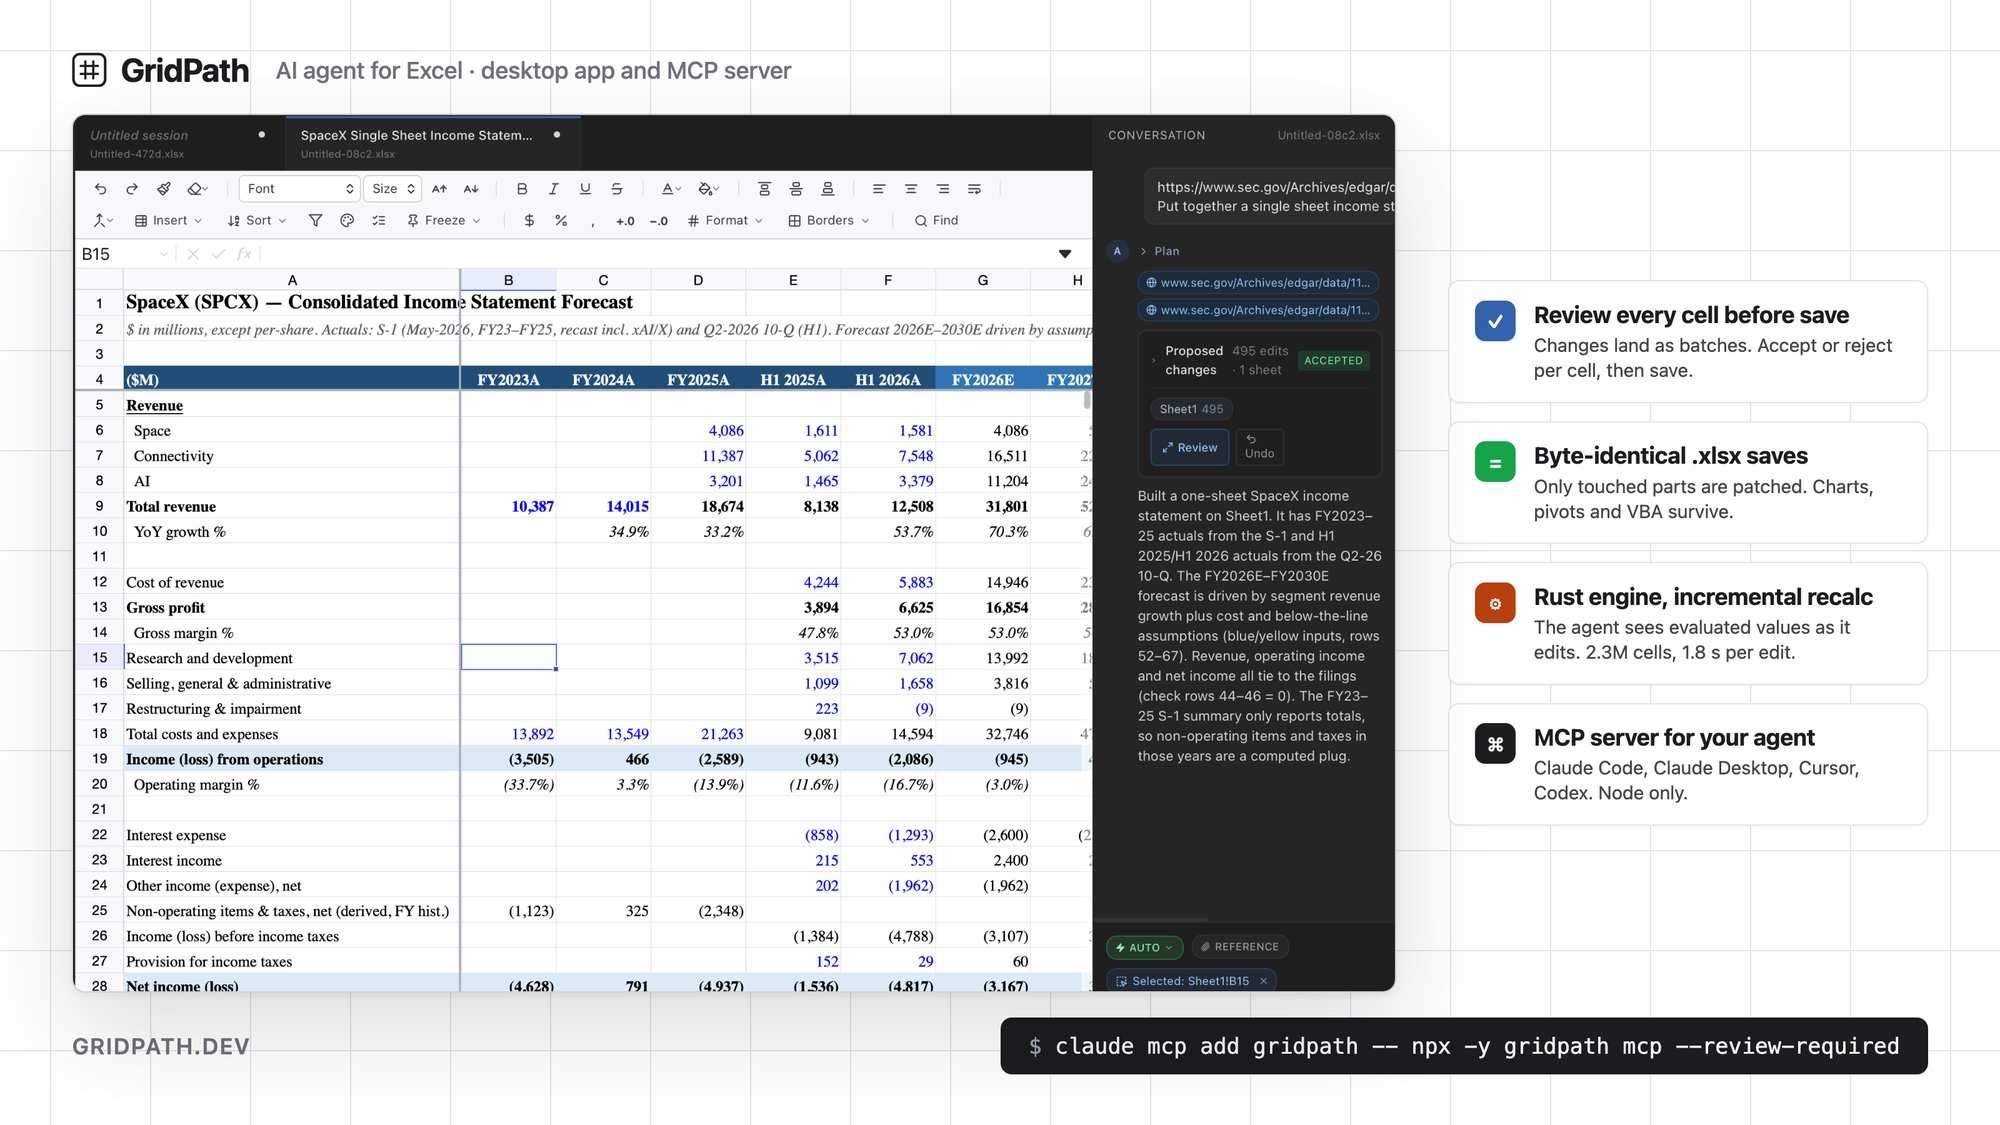
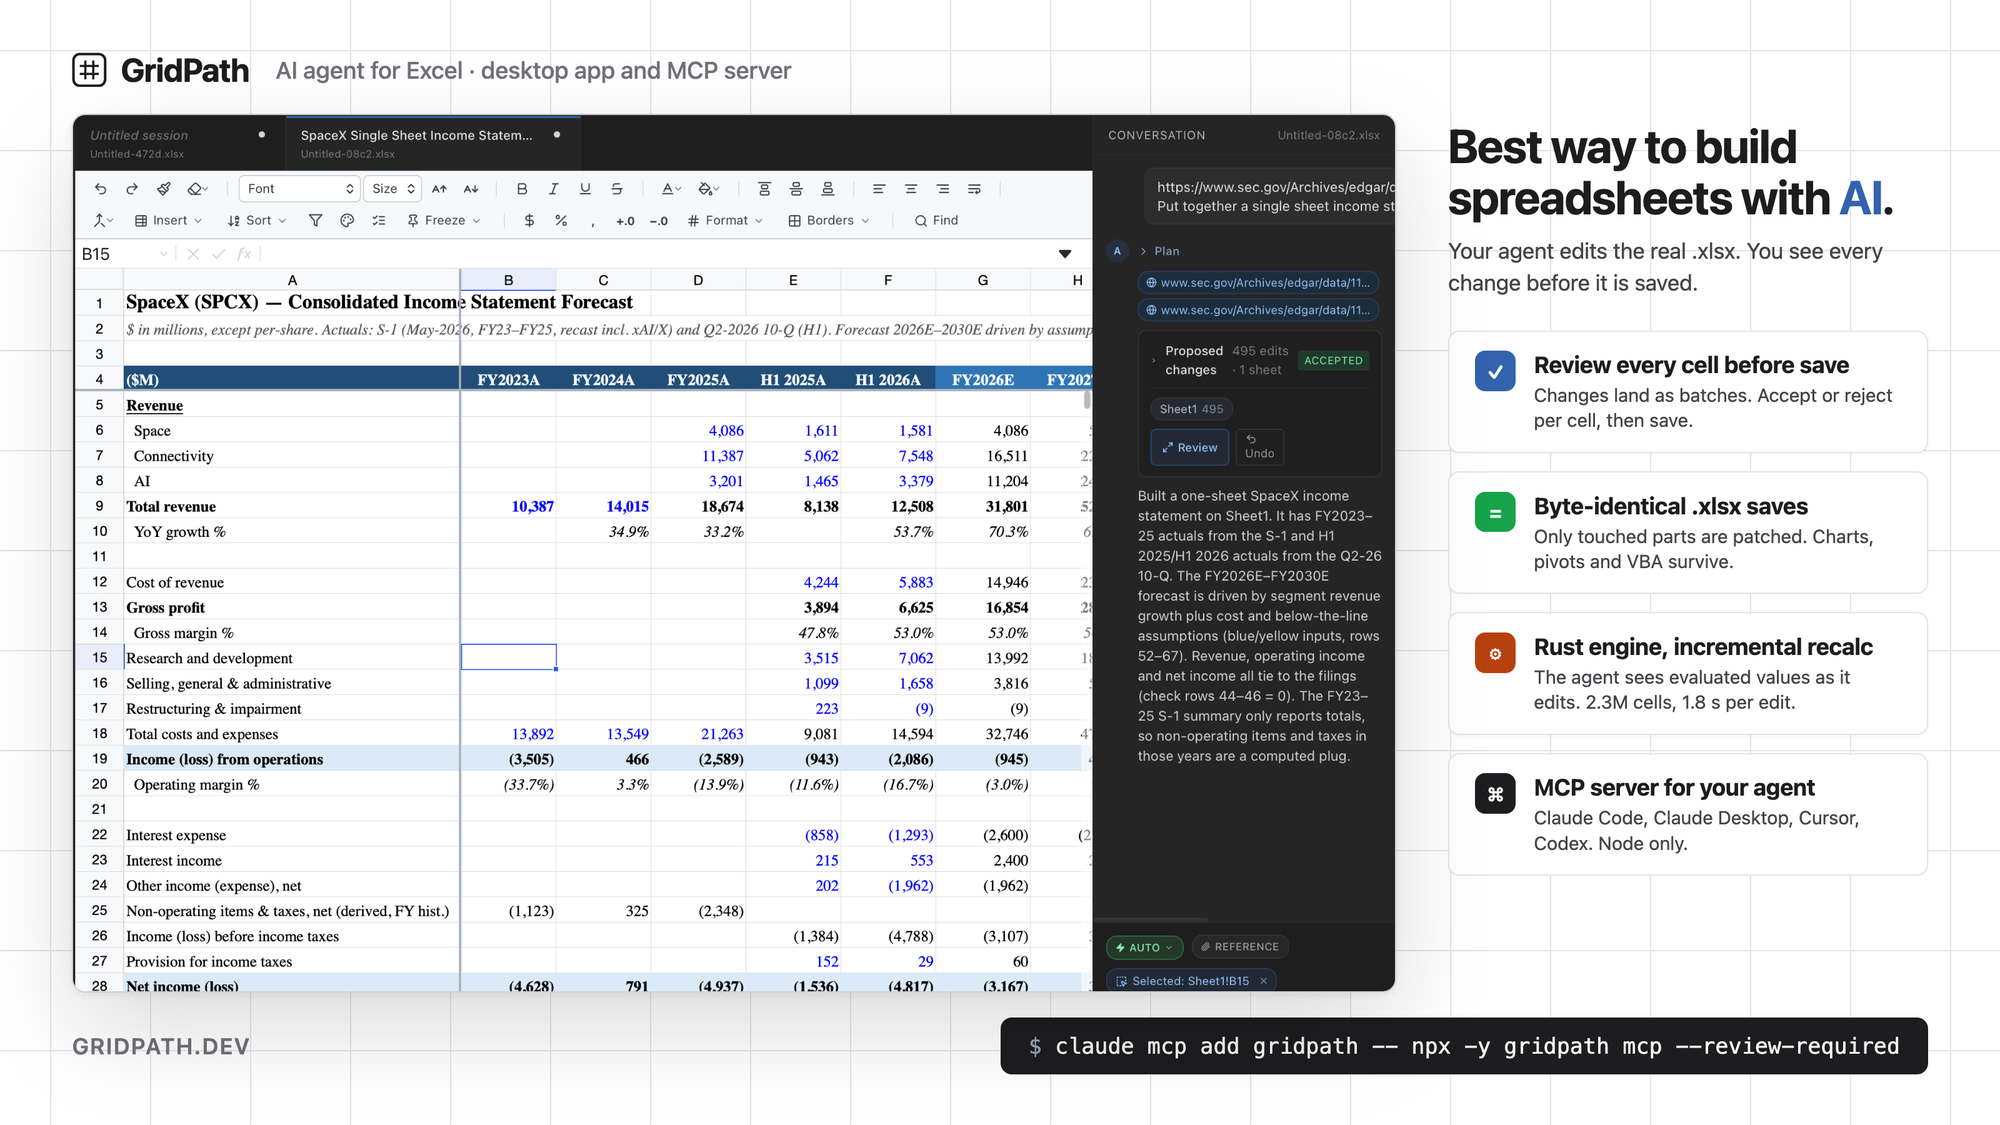
Hero image: headline above the feature points

Changed region(s): [[0.713, 0.0933, 0.961, 0.7778]]

diff --git a/docs/images/hero-source.html b/docs/images/hero-source.html
@@ -14,7 +14,10 @@
   .shot { position:relative; border:1px solid #cfcfd4; border-radius:1.2vh; overflow:hidden; background:#fff;
     box-shadow:0 30px 80px rgba(0,0,0,.14), 0 2px 6px rgba(0,0,0,.06); align-self:stretch; }
   .shot img { position:absolute; left:0; top:0; width:100%; height:auto; display:block; }
-  .side { display:flex; flex-direction:column; justify-content:center; gap:1.6vh; }
+  .side { display:flex; flex-direction:column; justify-content:flex-start; gap:1.6vh; padding-top:0.6vh; }
+  .head h1 { font-size:min(4.6vh, 2.35vw); line-height:1.08; letter-spacing:-0.025em; font-weight:700; margin:0 0 1.2vh; }
+  .head h1 em { font-style:normal; color:var(--accent); }
+  .head p { font-size:1.95vh; line-height:1.45; color:var(--soft); margin:0 0 1.2vh; }
   .chip { border:1px solid var(--border); background:#fff; border-radius:1vh; padding:1.7vh 1.3vw; display:flex; gap:0.9vw; align-items:flex-start; box-shadow:0 1px 2px rgba(0,0,0,.04); }
   .chip i { flex:none; width:3.6vh; height:3.6vh; border-radius:0.9vh; display:grid; place-items:center; color:#fff; font-style:normal; font-weight:700; font-size:1.7vh; }
   .chip b { display:block; font-size:2.05vh; letter-spacing:-0.01em; margin-bottom:0.4vh; }
@@ -32,6 +35,7 @@
   </div>
   <div class="shot"><img src="app.png" alt=""></div>
   <div class="side">
+    <div class="head"><h1>Best way to build spreadsheets with <em>AI</em>.</h1><p>Your agent edits the real .xlsx. You see every change before it is saved.</p></div>
     <div class="chip c1"><i>✓</i><div><b>Review every cell before save</b><small>Changes land as batches. Accept or reject per cell, then save.</small></div></div>
     <div class="chip c2"><i>=</i><div><b>Byte-identical .xlsx saves</b><small>Only touched parts are patched. Charts, pivots and VBA survive.</small></div></div>
     <div class="chip c3"><i>⚙</i><div><b>Rust engine, incremental recalc</b><small>The agent sees evaluated values as it edits. 2.3M cells, 1.8 s per edit.</small></div></div>
